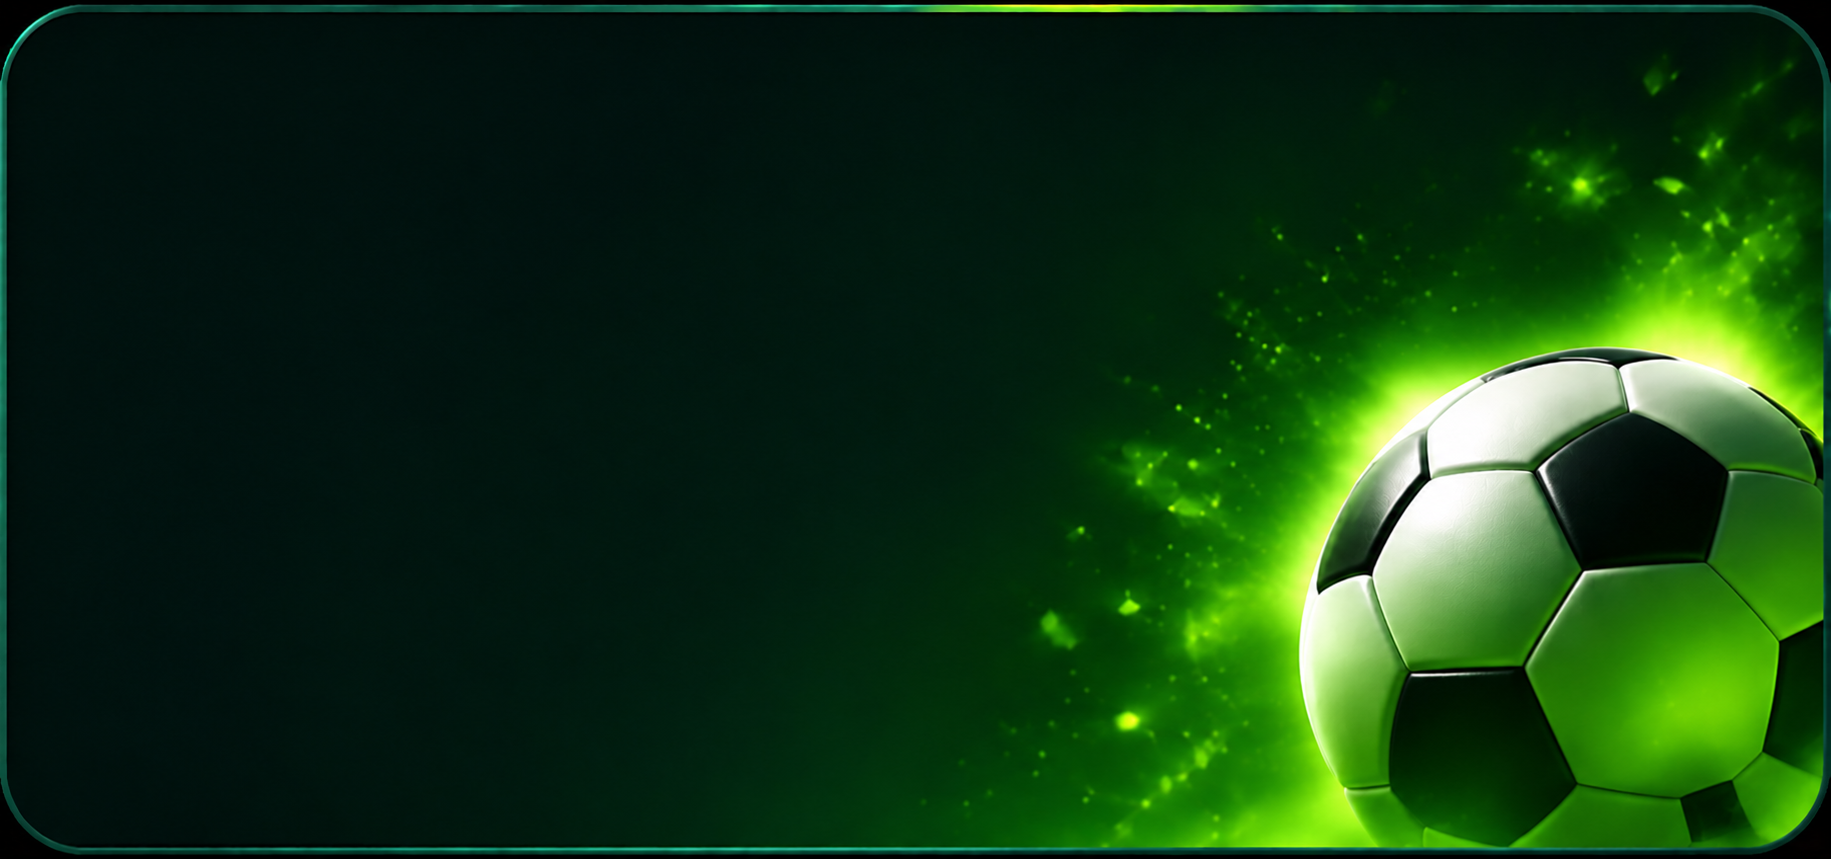
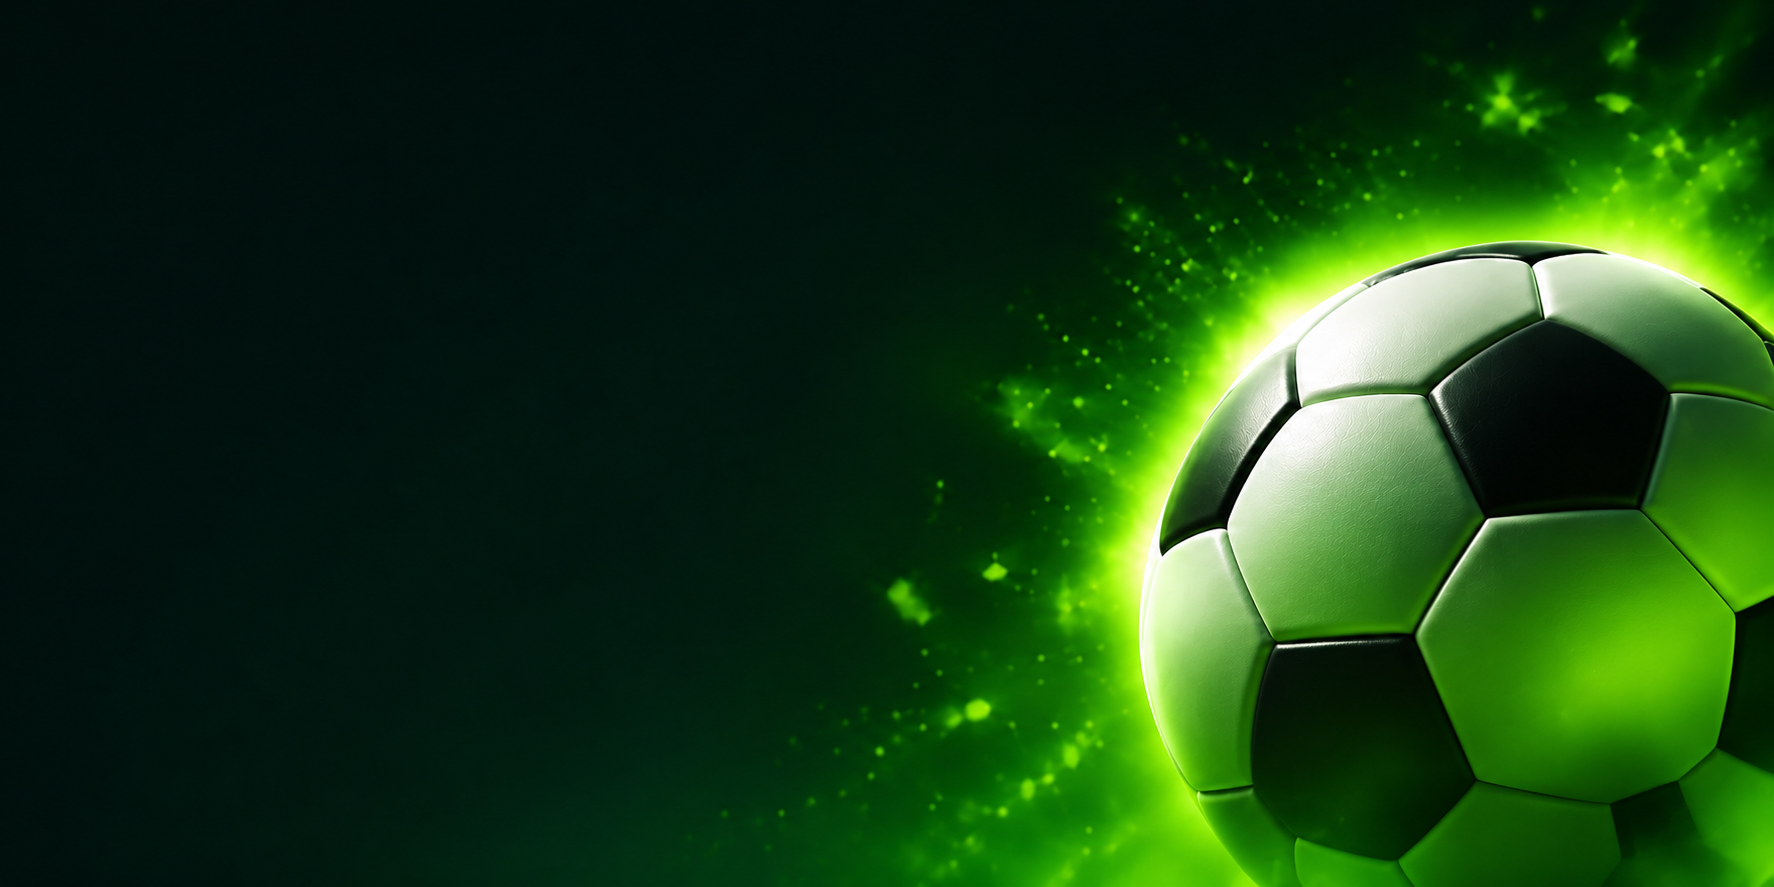
fix: arreglo cambios de frontend inicio

diff --git a/frontend/src/pages/jugador/Inicio.jsx b/frontend/src/pages/jugador/Inicio.jsx
@@ -12,92 +12,87 @@ import ActividadReciente from '../../components/jugador/ActividadReciente';
 
 function Inicio() {
     const { usuario } = useAuth();
+        return (
+            <div className="inicio-layout">
+                <Sidebar />
 
-    return (
-        <div className="inicio-layout">
-            <Sidebar />
-
-            <main className="inicio">
-                <header className="inicio__header">
-                    <div>
-                        <h1>Hola, Jugador 👋</h1>
-                        <p>¿Listo para jugar?</p>
-                    </div>
-
-                    <Link
-                        to="/perfil"
-                        className="inicio__perfil"
-                        aria-label="Mi perfil"
-                    >
-                        {usuario?.imagen_url ? (
-                            <img
-                                src={usuario.imagen_url}
-                                alt={`Foto de ${usuario.nombre} ${usuario.apellido}`}
-                            />
-                        ) : (
-                            <UserRound size={24} />
-                        )}
-                    </Link>
-                </header>
-
-                <AccesosRapidos />
-
-                <section className="inicio__contenido">
-
-                    <div className="inicio__principal">
-                        <ProximaReserva />
-
-                        <section className="inicio__recomendadas">
-                            <div className="inicio__titulo-seccion">
-                                <h2>Canchas recomendadas</h2>
-                                <a href="/complejos">
-                                    Ver más <ArrowRight size={17} />
-                                </a>
-                            </div>
-
-                            <div className="inicio__grid-canchas">
-                                <CanchaCard />
-                                <CanchaCard />
-                                <CanchaCard />
-                            </div>
-                        </section>
-                    </div>
-
-                    <section className="inicio__promocional">
-                        <div className="inicio__promo-texto">
-                            <h2>
-                                Encontrá, reservá
-                                <br />
-                                y <span>jugá</span>
-                            </h2>
-
-                            <p>
-                                Canchas, complejos y tus reservas
-                                en un solo lugar.
-                            </p>
+                <main className="inicio">
+                    <header className="inicio__header">
+                        <div>
+                            <h1>Hola, Jugador 👋</h1>
+                            <p>¿Listo para jugar?</p>
                         </div>
+                    
+                        <Link
+                            to="/perfil"
+                            className="inicio__perfil"
+                            aria-label="Mi perfil"
+                        >
+                            {usuario?.imagen_url ? (
+                                <img
+                                    src={usuario.imagen_url}
+                                    alt={`Foto de ${usuario.nombre} ${usuario.apellido}`}
+                                />
+                            ) : (
+                                <UserRound size={24} />
+                            )}
+                        </Link>
+                    </header>
+                
+                    <AccesosRapidos />
+                
+                    <section className="inicio__contenido">
+                        
+                        <div className="inicio__principal">
+                            <ProximaReserva />
+
+                            <section className="inicio__recomendadas">
+                                <div className="inicio__titulo-seccion">
+                                    <h2>Canchas recomendadas</h2>
+                                    <a href="/complejos">
+                                        Ver más <ArrowRight size={17} />
+                                    </a>
+                                </div>
+
+                                <div className="inicio__grid-canchas">
+                                    <CanchaCard />
+                                    <CanchaCard />
+                                    <CanchaCard />
+                                </div>
+                            </section>
+                        </div>    
+                        <div className="inicio__columna-promocional">
+                            <section className="inicio__promocional">
+                                <div className="inicio__promo-texto">
+                                    <h2>
+                                        Encontrá, reservá
+                                    <br />
+                                        y <span>jugá</span>
+                                    </h2>
+                                    
+                                    <p>
+                                        Canchas, complejos y tus reservas
+                                        en un solo lugar.
+                                    </p>
+                                </div>
+                            </section>
+                            
+                            <section className="inicio__tip">
+                                <div className="inicio__tip-titulo">
+                                        <Lightbulb size={35} />
+                                        <h3>Tip de Picado</h3>
+                                </div>
+                                <p>
+                                    Buscá complejos por ubicación, elegí el día y horario que más te convenga y reservá tu próximo partido en pocos pasos.
+                                </p>
+                            </section>
+                        </div>
+                        
+                        <aside className="inicio__lateral">
+                            <ActividadReciente />
+                        </aside>
                     </section>
-
-                    <aside className="inicio__lateral">
-                        <ActividadReciente />
-
-                        <section className="inicio__tip">
-                            <div className="inicio__tip-titulo">
-                                <Lightbulb size={25} />
-                                <h3>Tip de Picado</h3>
-                            </div>
-
-                            <p>
-                                Podés buscar complejos por fecha
-                                y horario para ver disponibilidad
-                                al instante.
-                            </p>
-                        </section>
-                    </aside>
-
-                </section>
-            </main>
-
+                </main>
             <BottomNav />
         </div>
     );

diff --git a/frontend/src/pages/jugador/inicio.css b/frontend/src/pages/jugador/inicio.css
@@ -95,7 +95,9 @@ CONTENIDO Y COLUMNAS
     display: flex;
     flex-direction: column;
     gap: 24px;
-    padding-top: 150px;
+    padding-top: 107px;
+    align-self: start;
+    margin-top: 0;
 }
 
 /* ========================================
@@ -270,7 +272,8 @@ ACCESOS RAPIDOS
 .accesos-rapidos__grupo {
     display: flex;
     align-items: stretch;
-    gap: 12px;
+    gap: 15px;
+    transform: translateX(25px);
 }
 
 .accesos-rapidos__secundario {
@@ -602,7 +605,7 @@ TARJETAS DE CANCHAS
 
 
 /* ========================================
-   ACTIVIDAD RECIENTE
+ACTIVIDAD RECIENTE
 ======================================== */
 
 .actividad-reciente {
@@ -612,6 +615,7 @@ TARJETAS DE CANCHAS
     background: rgba(20, 55, 42, 0.94);
     box-shadow: var(--shadow-card);
     backdrop-filter: blur(12px);
+    transform: translateX(30px);
 }
 
 /* ENCABEZADO */
@@ -1078,14 +1082,24 @@ RESPONSIVE SIDEBAR
 TARJETA PROMOCIONAL
 ======================================== */
 
+.inicio__columna-promocional {
+    display: flex;
+    flex-direction: column;
+    gap: 150px;
+    min-width: 0;
+}
+
+
 .inicio__promocional {
     position: relative;
     width: 100%;
-    max-width: 470px;
+    max-width: none;
     min-height: 227px;
+    height: 227px;
     margin-top: 110px;
-    margin-left: 20px;
+    margin-left: 0px;
     padding: 22px;
+    box-sizing: border-box;
     display: flex;
     align-items: center;
     overflow: hidden;
@@ -1127,6 +1141,8 @@ TARJETA PROMOCIONAL
     color: #D0DDD4;
     font-size: clamp(12px, 1vw, 15px);
     line-height: 1.4;
+    margin-top: 20px;
+    max-width: 65%;
 }
 
 /* ========================================
@@ -1164,7 +1180,6 @@ RESPONSIVE
     gap: 24px;
 }
 
-
 /* ========================================
 TIP DE PICADO
 ======================================== */
@@ -1172,29 +1187,32 @@ TIP DE PICADO
 .inicio__tip {
     position: relative;
     width: 100%;
-    max-width: 280px;
-    min-height: 118px;
-    padding: 16px;
+    max-width: none;
+    min-height: 227px;
+    height: 227px;
+    box-sizing: border-box;
+    padding: 22px 16px;
     overflow: hidden;
 
     display: flex;
     flex-direction: column;
+    align-items: flex-start;
     justify-content: center;
 
     border: 1px solid rgba(38, 115, 77, 0.7);
     border-radius: 17px;
 
-background-image:
-    linear-gradient(
-        90deg,
-        rgba(0, 20, 12, 0.12),
-        rgba(0, 20, 12, 0)
-    ),
-    url('/images/tip-picado.png');
+    background-image:
+        linear-gradient(
+            90deg,
+            rgba(0, 20, 12, 0.12),
+            rgba(0, 20, 12, 0)
+        ),
+        url('/images/tip-picado.png');
 
-background-size: cover;
-background-position: center;
-background-repeat: no-repeat;
+    background-size: cover;
+    background-position: center;
+    background-repeat: no-repeat;
 }
 
 /* TÍTULO */
@@ -1202,15 +1220,18 @@ background-repeat: no-repeat;
 .inicio__tip-titulo {
     display: flex;
     align-items: center;
-    gap: 9px;
-    margin-bottom: 8px;
+    gap: 12px;
+    margin: 0;
     color: #B9E769;
+    position: relative;
+    top: -5px;
 }
 
 .inicio__tip-titulo h3 {
     color: #FFFFFF;
-    font-size: 15px;
-    font-weight: 700;
+    font-size: clamp(24px, 2vw, 30px);
+    font-weight: 800;
+    line-height: 1.1;
     margin: 0;
 }
 
@@ -1219,11 +1240,13 @@ background-repeat: no-repeat;
 .inicio__tip p {
     position: relative;
     z-index: 1;
-    max-width: 78%;
-    margin: 0;
+    width: 45%;
+    max-width: 260px;
+    margin: 18px 0 0 5px;
+
     color: #E0E9E2;
-    font-size: 12px;
-    line-height: 1.45;
+    font-size: 15px;
+    line-height: 1.5;
 }
 
 /* CALENDARIO */
@@ -1274,4 +1297,10 @@ background-repeat: no-repeat;
 }
 .inicio__principal > .proxima-reserva {
     margin-top: 100px;
+}
+/* SIDEBAR: ocupar toda la altura del contenido */
+.sidebar {
+    height: auto;
+    min-height: 100vh;
+    align-self: stretch;
 }
